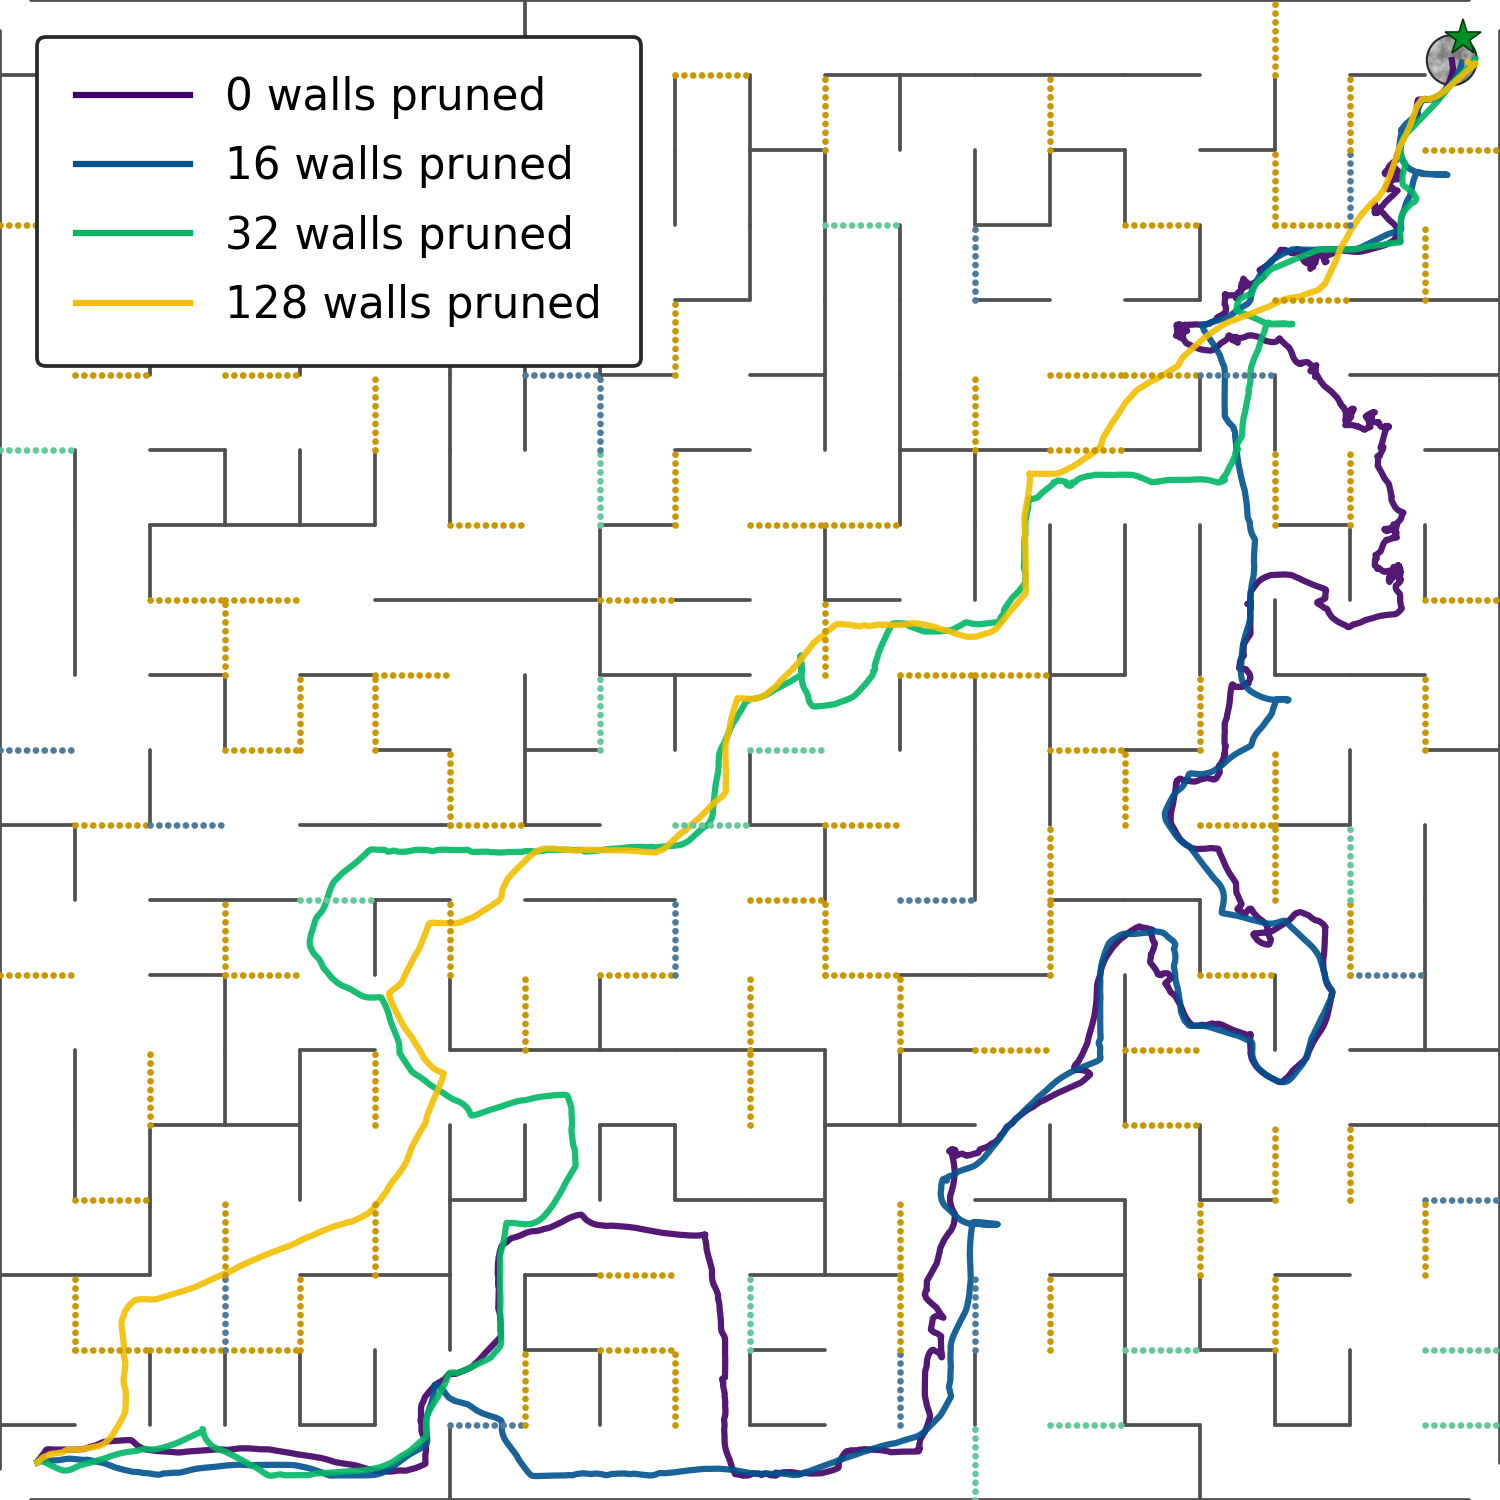
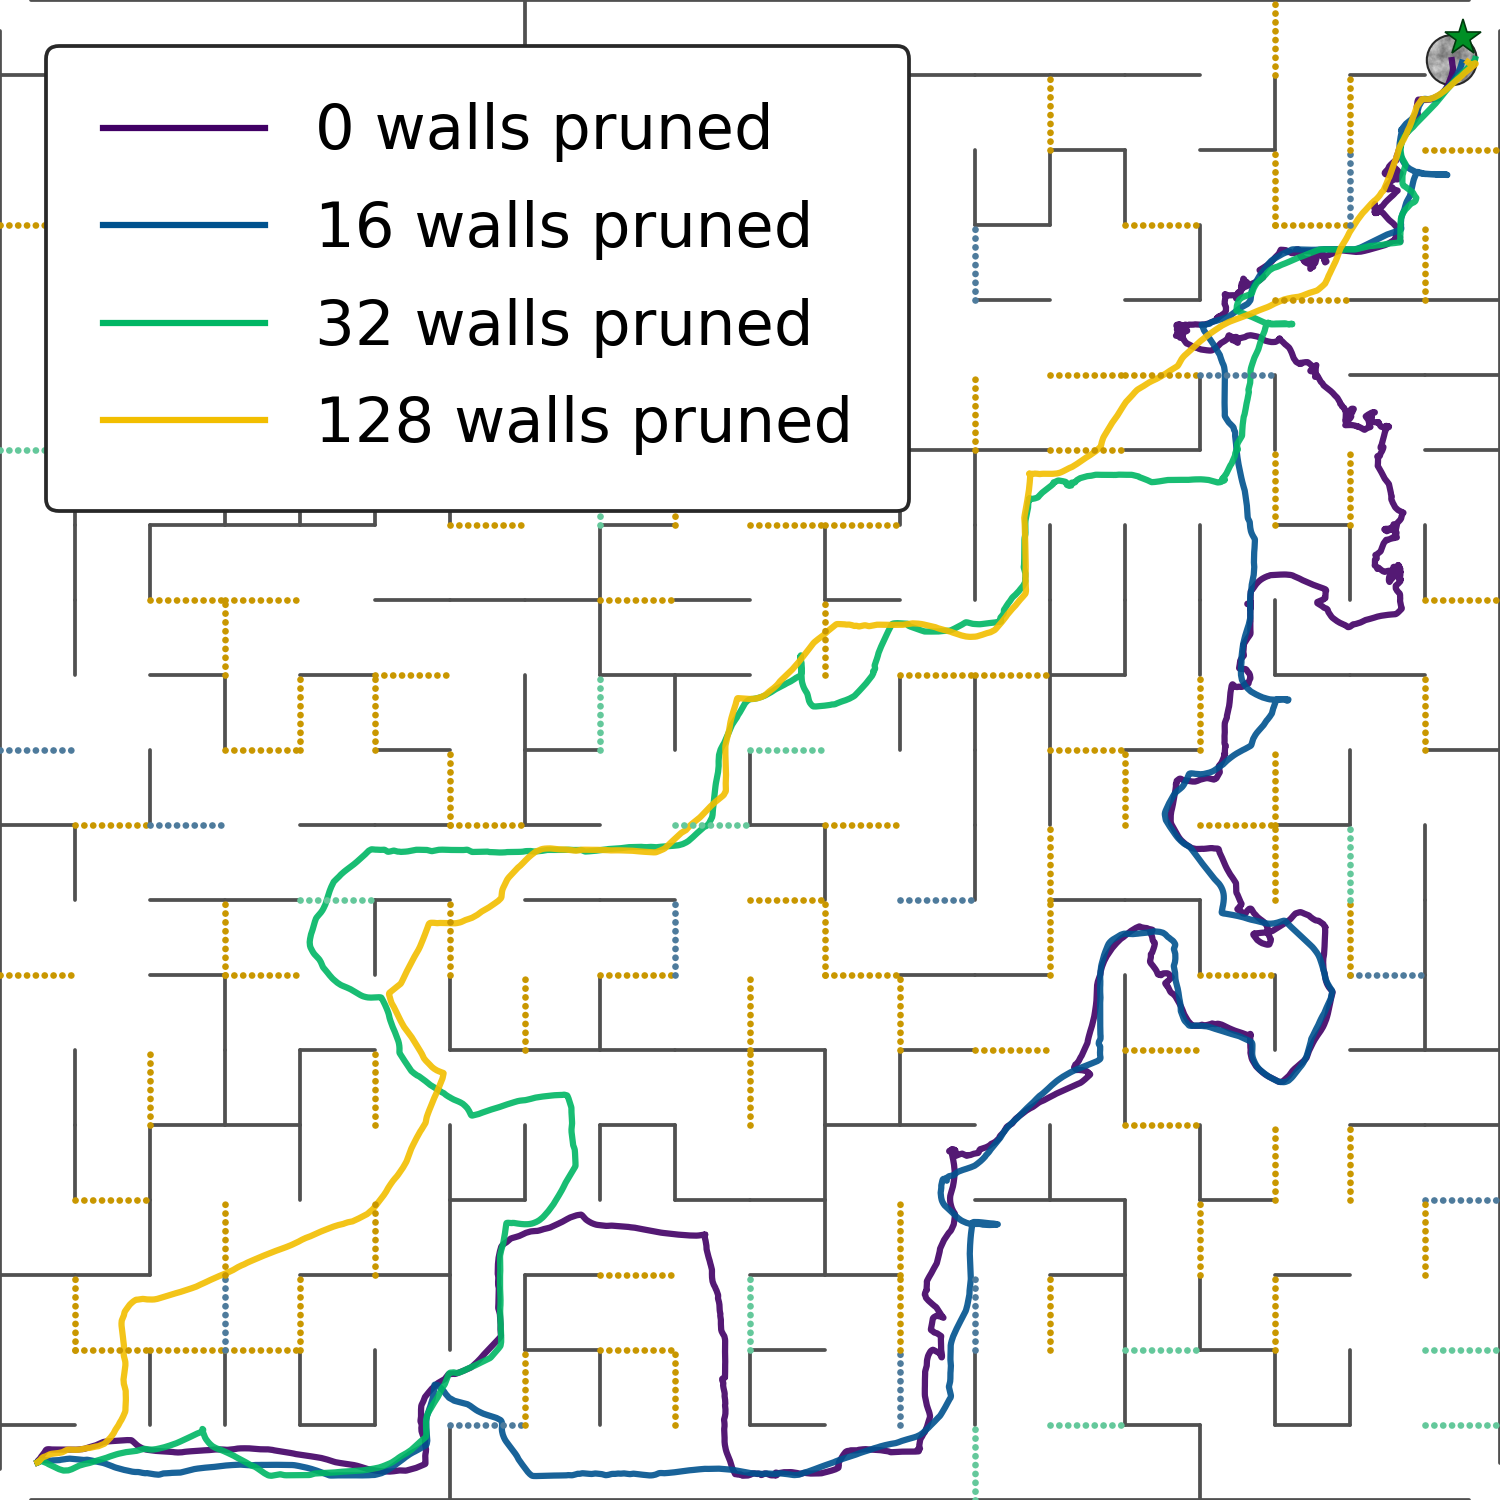
inset .py; latest combo figure. fig6f

Changed region(s): [[0.0, 0.0, 0.6133, 0.3373]]

diff --git a/figures/fig6/f/inset_combo.py b/figures/fig6/f/inset_combo.py
@@ -1,0 +1,34 @@
+"""Place wallprune_G20_combo.png as an inset in the top right of wallprune_G20.png.
+
+Writes wallprune_G20_inset.png next to the inputs (the base plot is left untouched,
+since plot_wallprune.py regenerates it).
+"""
+
+import os
+
+from PIL import Image, ImageDraw
+
+HERE = os.path.dirname(os.path.abspath(__file__))
+BASE = os.path.join(HERE, "wallprune_G20.png")
+COMBO = os.path.join(HERE, "wallprune_G20_combo.png")
+OUT = os.path.join(HERE, "wallprune_G20_inset.png")
+
+INSET_FRAC = 0.46    # inset width as a fraction of the base figure width
+MARGIN_X = 0.075     # gap from the right edge (fraction of base width); keeps it inside the axes
+MARGIN_Y = 0.115     # gap from the top edge (fraction of base height), clears the title
+BORDER_PX = 4
+
+base = Image.open(BASE).convert("RGB")
+combo = Image.open(COMBO).convert("RGB")
+
+side = round(base.width * INSET_FRAC)
+combo = combo.resize((side, side), Image.LANCZOS)
+
+x0 = base.width - side - round(base.width * MARGIN_X)
+y0 = round(base.height * MARGIN_Y)
+base.paste(combo, (x0, y0))
+ImageDraw.Draw(base).rectangle([x0, y0, x0 + side - 1, y0 + side - 1],
+                               outline="#282828", width=BORDER_PX)
+
+base.save(OUT)
+print(f"Saved {OUT}")

diff --git a/figures/fig6/f/render_final_frame.py b/figures/fig6/f/render_final_frame.py
@@ -425,7 +425,7 @@ def render_combo(src_dir, stem_fmt, out_path, colors=None):
     for st, c in zip(COMBO_STEPS, colors_):
         handles.append(Line2D([], [], color=c, linewidth=3.0))
         labels.append(f'{st} walls pruned')
-    leg = ax.legend(handles, labels, loc='upper left', ncol=1, fontsize=21,
+    leg = ax.legend(handles, labels, loc='upper left', ncol=1, fontsize=30,
                     frameon=True, fancybox=True, framealpha=1.0, edgecolor='#282828',
                     handlelength=2.6, columnspacing=1.2, borderpad=0.9, labelspacing=0.6,
                     bbox_to_anchor=(0.01, 0.99))
